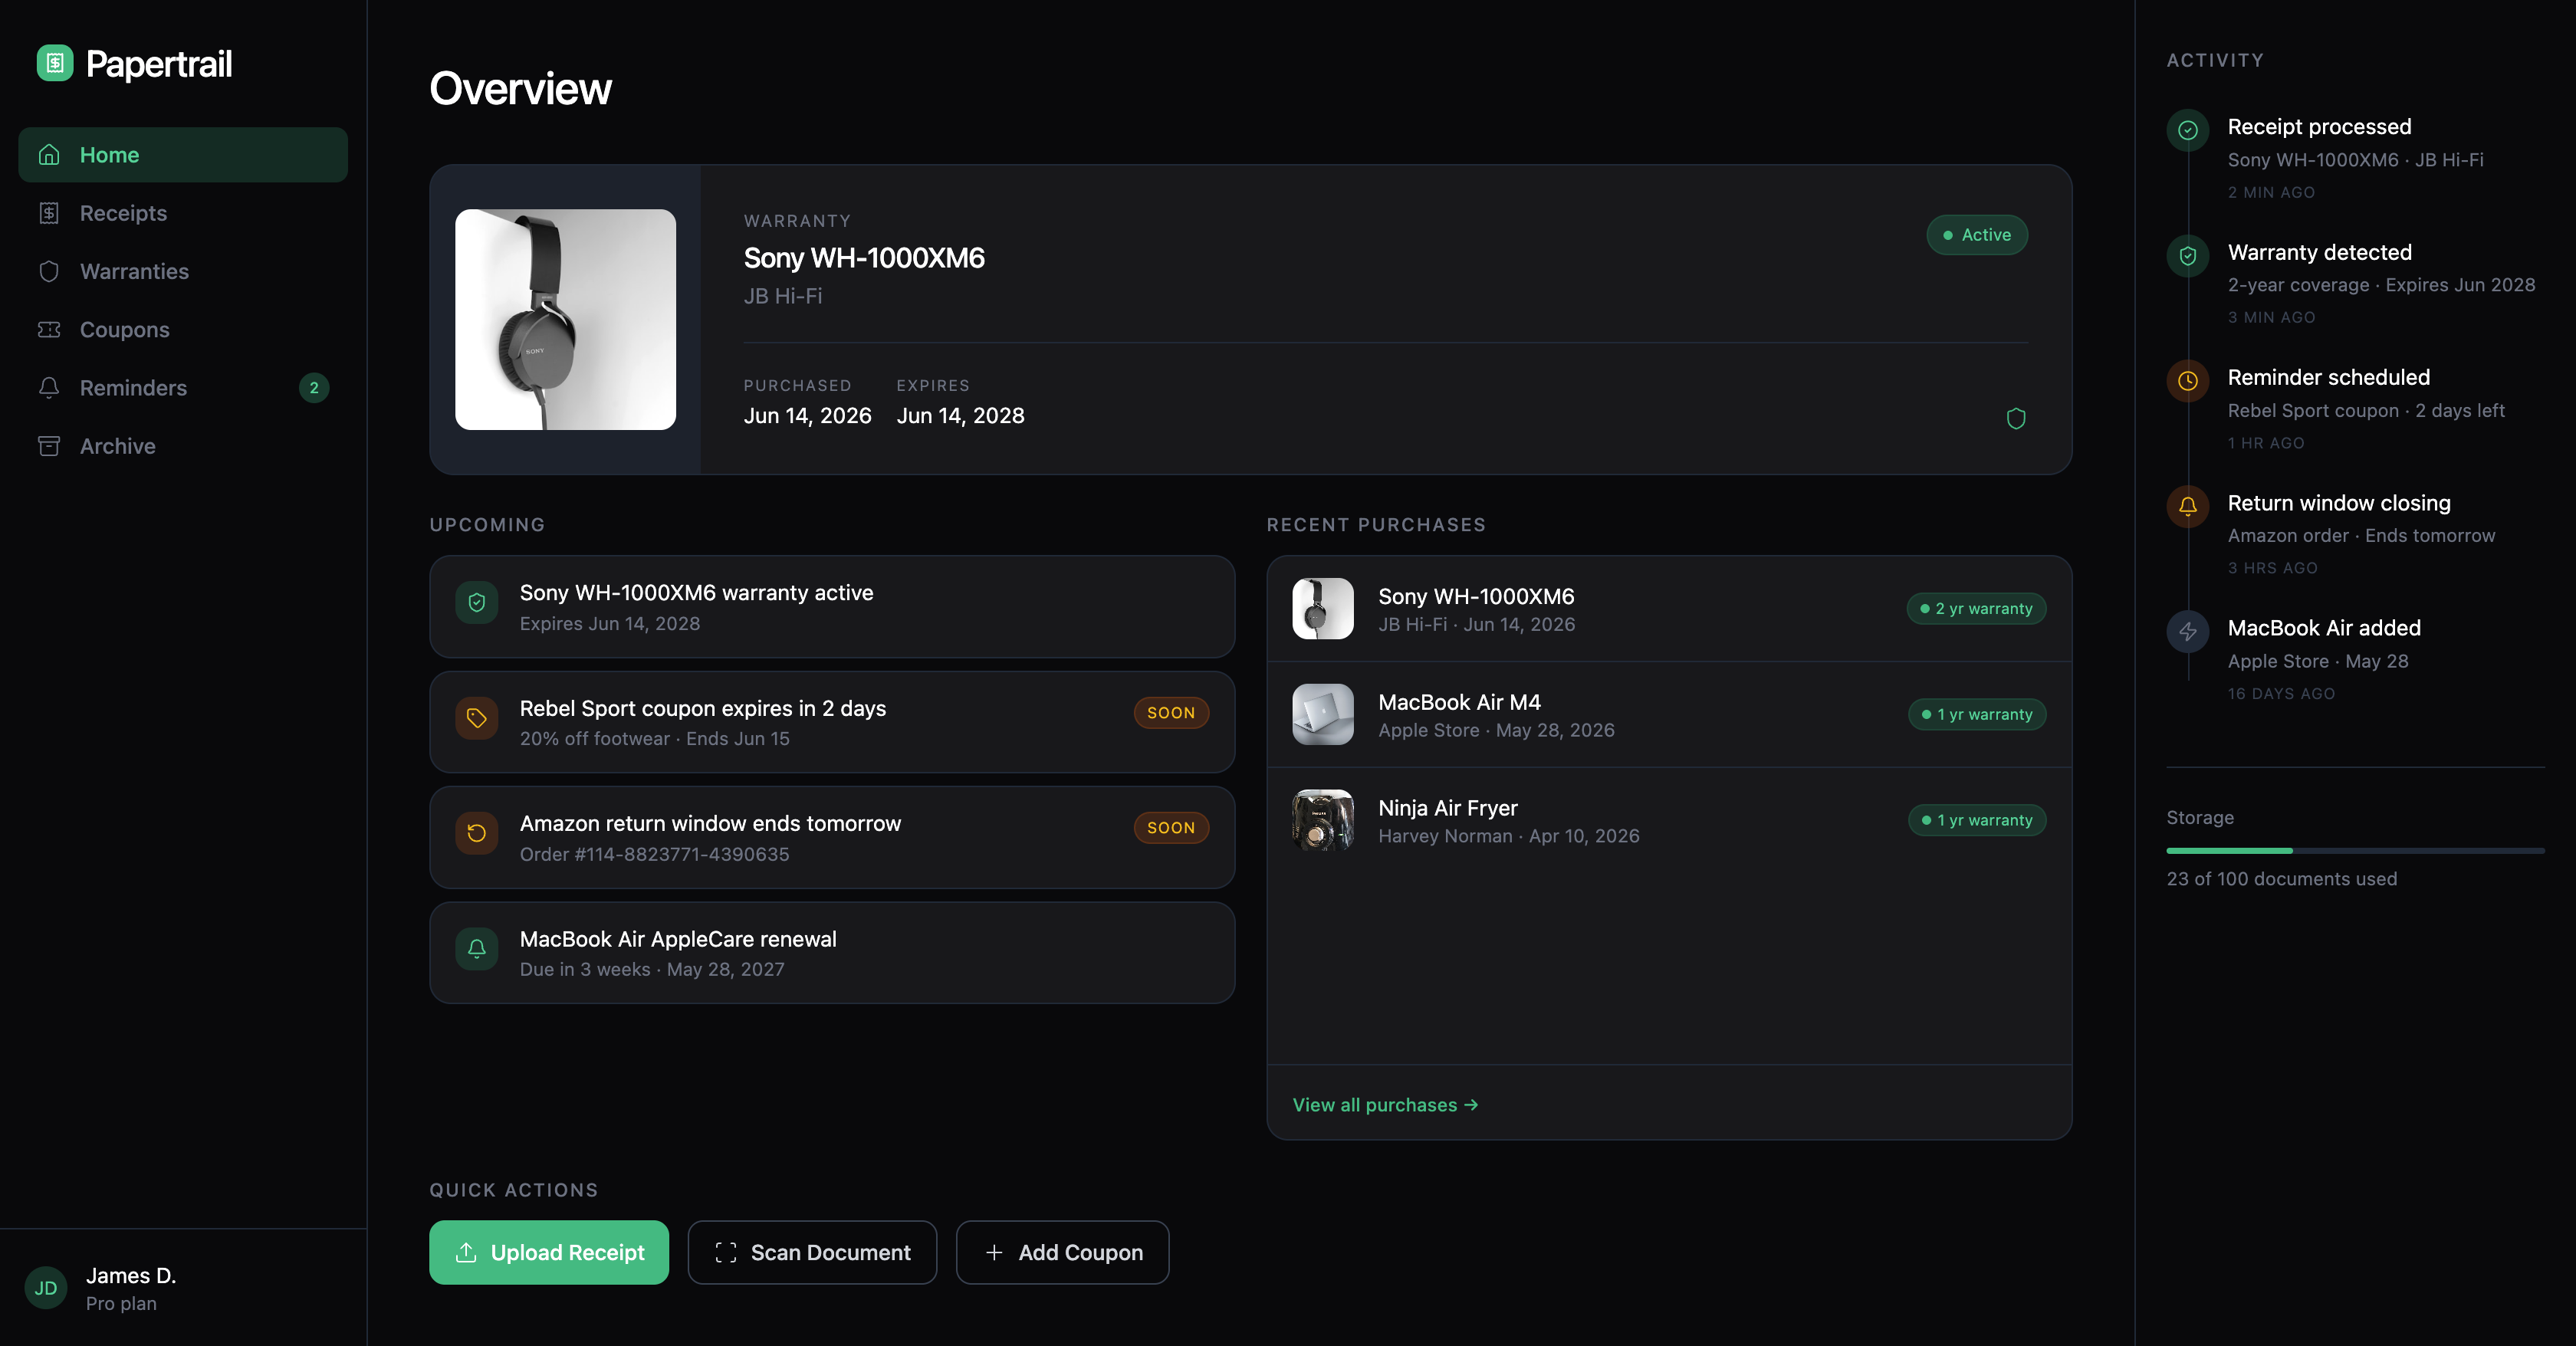
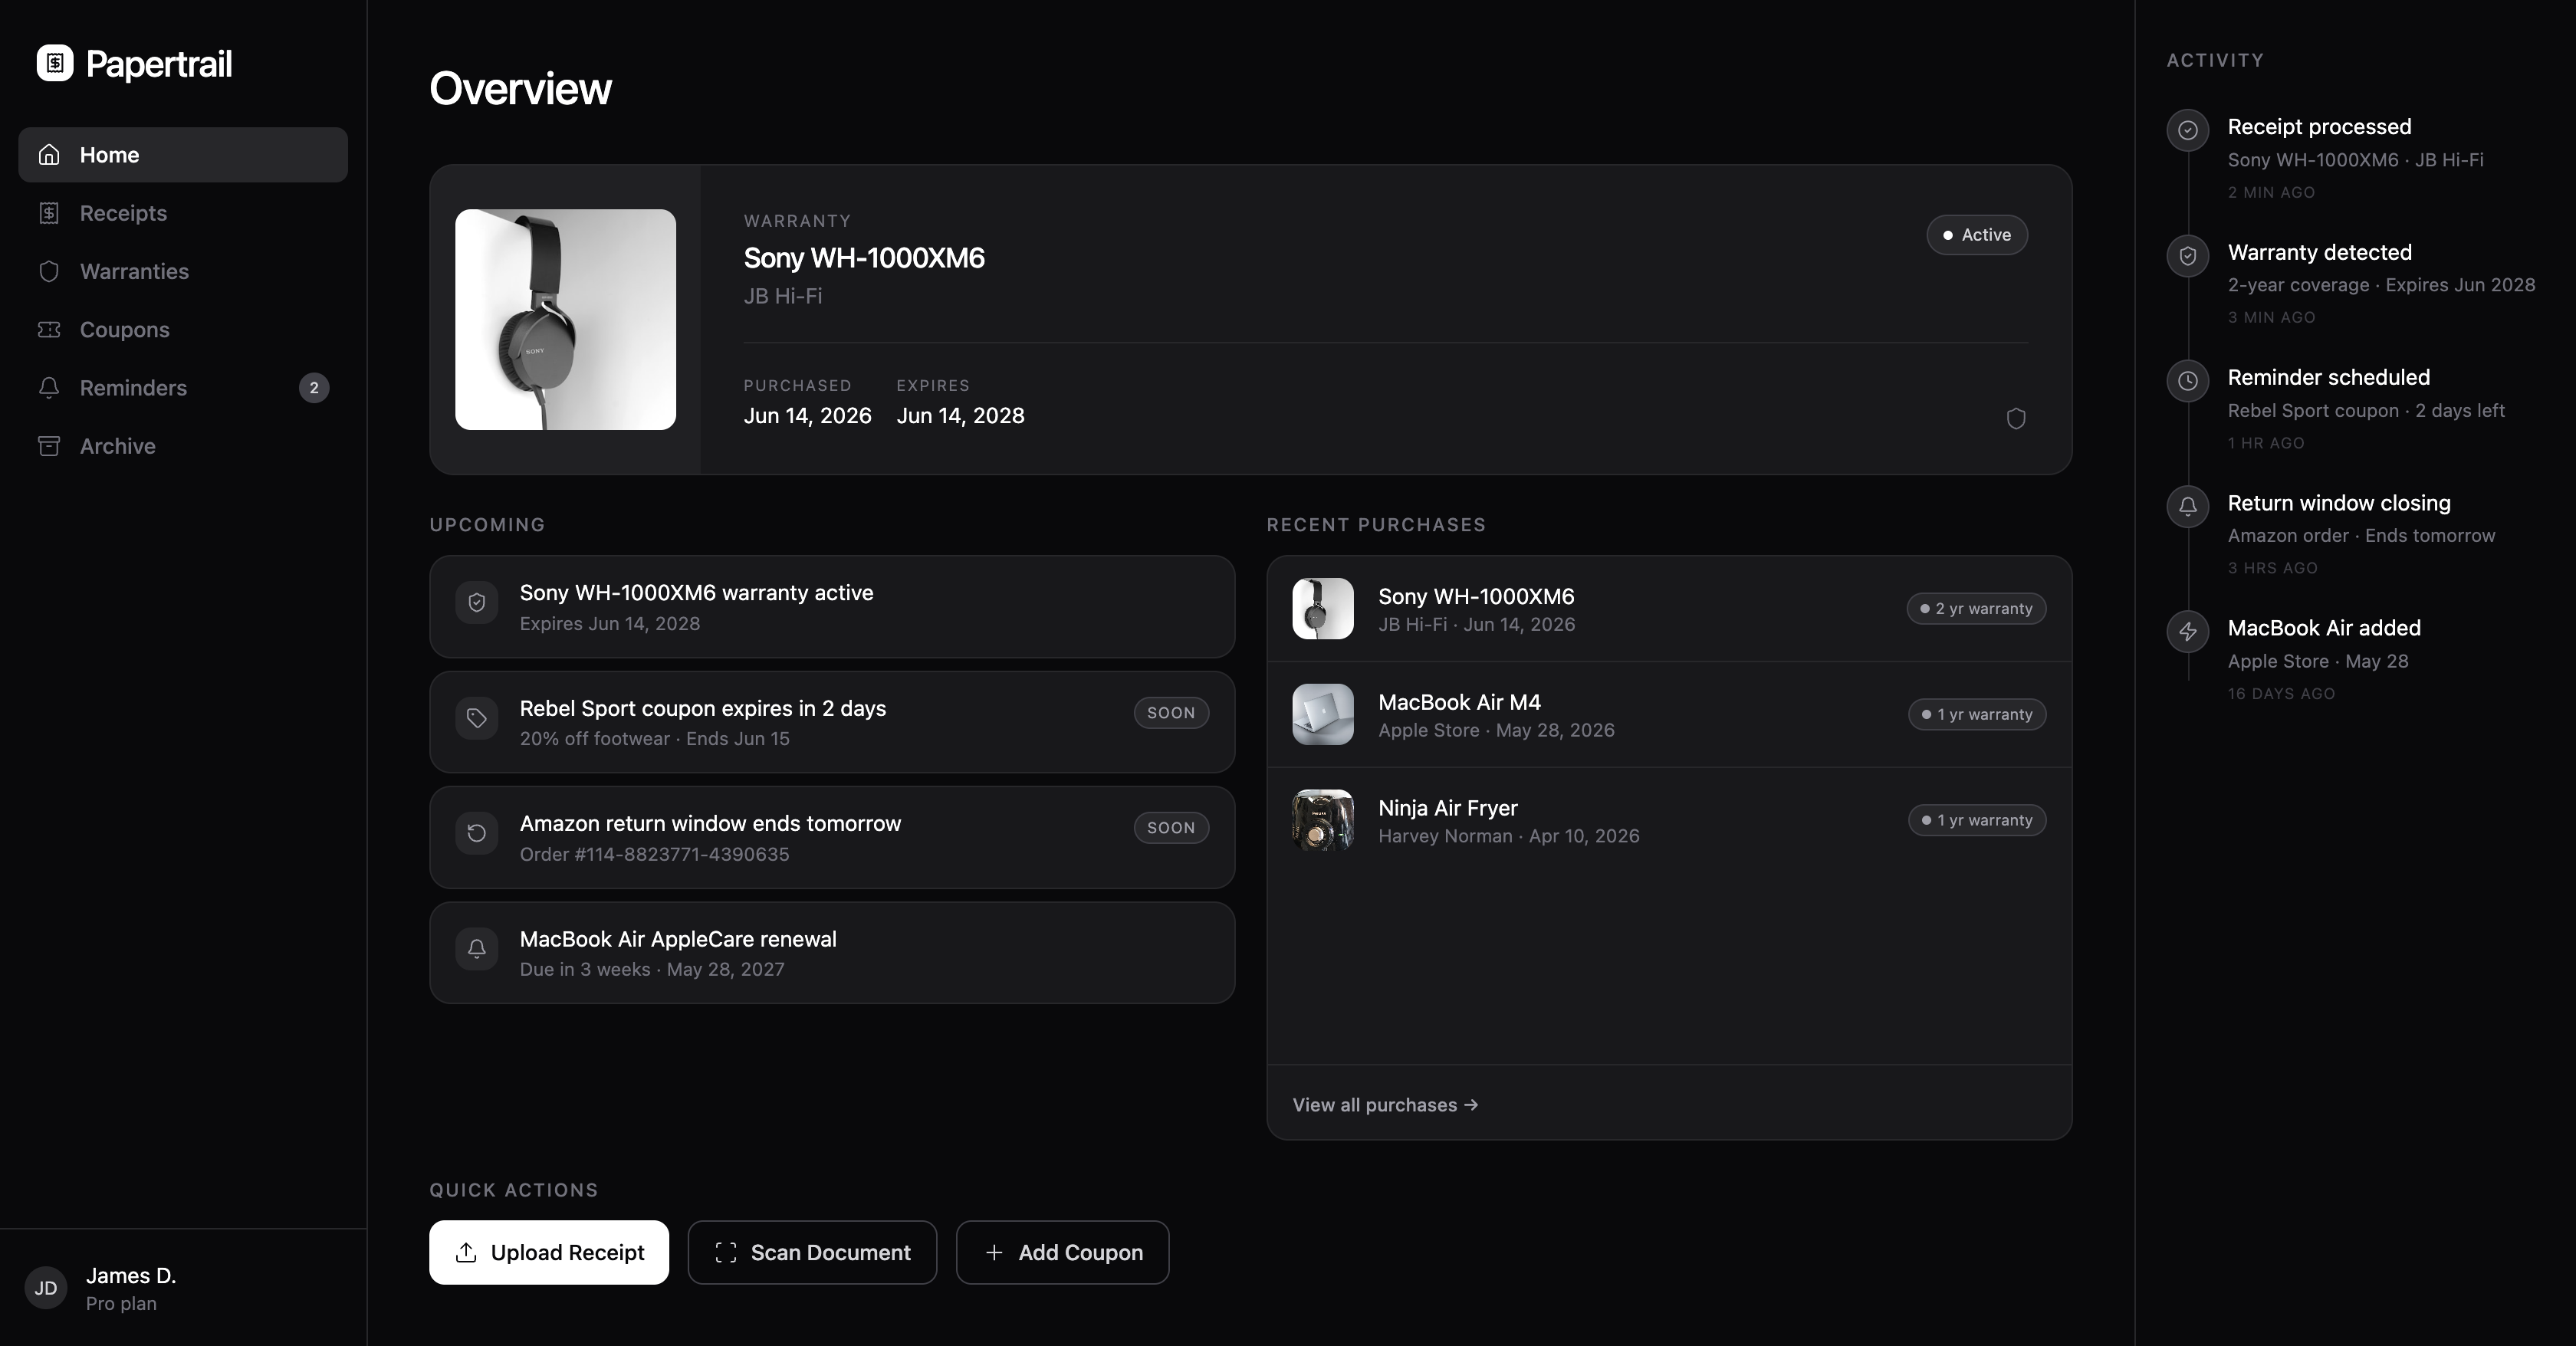
Embraced monochromtic theme. Removed emerald accent colors from all pages.

diff --git a/core/templates/core/home.html b/core/templates/core/home.html
@@ -5,31 +5,29 @@
     <nav class="fixed flex top-0 right-0 w-full justify-center align-center z-20 px-4 bg-white/80 dark:bg-zinc-950/80 backdrop-blur-md border-b border-b-zinc-200 dark:border-b-zinc-700">
         <div class="container flex flex-row flex-wrap items-center justify-between py-3 mx-auto w-full md:max-w-7xl">
             <div class="relative flex">
-                <a href="{% url 'core:home' %}" class="sm:flex items-center text-zinc-950 text-xl dark:text-white font-black lg:w-auto lg:items-center lg:justify-center md:mb-0 whitespace-nowrap">
-                    Papertrail<span class="text-emerald-500" data-primary="emerald-500">.</span>
-                </a>
+                <a href="{% url 'core:home' %}" class="sm:flex items-center text-zinc-950 text-xl dark:text-white font-black lg:w-auto lg:items-center lg:justify-center md:mb-0 whitespace-nowrap">Papertrail.</a>
                 <nav class="hidden md:flex flex-wrap items-center mb-5 text-base md:mb-0 md:pl-8 md:ml-8 md:border-l md:border-zinc-200 md:dark:border-zinc-700">
-                    <a href="#_" class="mr-5 leading-6 text-zinc-700 dark:text-white p-2 text-center rounded-md transition-all ease-in-out duration-200 hover:bg-zinc-200 dark:hover:bg-zinc-700">Features</a>
-                    <a href="#_" class="mr-5 leading-6 text-zinc-700 dark:text-white p-2 text-center rounded-md transition-all ease-in-out duration-200 hover:bg-zinc-200 dark:hover:bg-zinc-700">Pricing</a>
-                    <a href="#_" class="mr-5 leading-6 text-zinc-700 dark:text-white p-2 text-center rounded-md transition-all ease-in-out duration-200 hover:bg-zinc-200 dark:hover:bg-zinc-700">FAQ</a>
+                    <a href="#_" class="mr-5 leading-6 text-zinc-700 dark:text-white p-2 text-center rounded-md transition-all ease-in-out duration-200 hover:bg-zinc-200 dark:hover:bg-zinc-800">Features</a>
+                    <a href="#_" class="mr-5 leading-6 text-zinc-700 dark:text-white p-2 text-center rounded-md transition-all ease-in-out duration-200 hover:bg-zinc-200 dark:hover:bg-zinc-800">Pricing</a>
+                    <a href="#faq" class="mr-5 leading-6 text-zinc-700 dark:text-white p-2 text-center rounded-md transition-all ease-in-out duration-200 hover:bg-zinc-200 dark:hover:bg-zinc-800">FAQ</a>
                 </nav>
             </div>
             <div class="inline-flex items-center space-x-3 sm:space-x-6 lg:justify-end">
-                <a href="{% url 'account_login' %}" class="text-base leading-6 whitespace-no-wrap text-zinc-950 dark:text-zinc-200 px-2 md:sm-4 py-2 text-center rounded-md transition-all ease-in-out duration-200 hover:bg-zinc-200 dark:hover:bg-zinc-700">
+                <a href="{% url 'account_login' %}" class="text-base leading-6 whitespace-no-wrap text-zinc-950 dark:text-zinc-200 px-2 md:sm-4 py-2 text-center rounded-md transition-all ease-in-out duration-200 hover:bg-zinc-200 dark:hover:bg-zinc-800">
                     Sign in
                 </a>
-                <a href="{% url 'account_signup' %}" class="inline-flex items-center justify-center px-2 md:sm-4 py-2 text-base leading-6 whitespace-no-wrap text-white bg-emerald-500 transition-all ease-in-out duration-200 hover:bg-emerald-600 rounded-md" data-rounded="rounded-md" data-primary="emerald-500">
+                <a href="{% url 'account_signup' %}" class="inline-flex items-center justify-center md:sm-4 py-2 text-base leading-6 whitespace-no-wrap text-white dark:text-black bg-black hover:bg-black/80 dark:bg-white transition-all ease-in-out duration-200 dark:hover:bg-white/80 rounded-md px-4" data-rounded="rounded-md">
                     Join now
                 </a>
             </div>
         </div>
     </nav>
     
-    <section class="w-full bg-linear-to-b from-white to-zinc-200 dark:from-zinc-950 dark:from-20% dark:to-zinc-800 pt-36 rounded-md">
+    <section class="w-full bg-linear-to-b from-white to-zinc-300 dark:from-zinc-950 dark:from-20% dark:to-zinc-800 pt-36 rounded-md">
         <div class="container mx-auto gap-10 px-4 mb-5 flex flex-col items-center justify-center">
             <header>
                 <h1 class="text-4xl md:text-6xl text-center dark:text-white mb-5 font-semibold">
-                    Purchases leave <span class="text-emerald-500">Papertrails.</span>
+                    Purchases leave Papertrails.
                     <br>We'll track them for you.
                 </h1>
                 <p class="text-zinc-700 dark:text-zinc-400 text-center"> 
@@ -37,13 +35,52 @@
                 </p> 
             </header>
             <div class="grid grid-cols-2 gap-4 mb-5">
-                <a href="{% url 'account_signup' %}" class="text-white bg-emerald-500 transition-all ease-in-out duration-200 hover:bg-emerald-600 p-2 px-4 text-center rounded-md">Join now</a> 
-                <a href="#" class="text-zinc-950 dark:text-white p-2 text-center rounded-md transition-all ease-in-out duration-200 hover:bg-zinc-200 dark:hover:bg-zinc-700 px-4">Discover</a>
+                <a href="{% url 'account_signup' %}" class="text-white dark:text-black bg-black dark:bg-white transition-all ease-in-out duration-200 dark:hover:bg-white/80 hover:bg-black/80 p-2 px-4 text-center rounded-md">Join now</a> 
+                <a href="#" class="text-zinc-950 dark:text-white p-2 text-center rounded-md transition-all ease-in-out duration-200 hover:bg-zinc-200 dark:hover:bg-zinc-800 px-4">Discover</a>
             </div>
         </div>
         <div class="pl-4 sm:px-4 pb-10 mx-auto">
-            <img src="{% static 'core/images/interface-demo-light.png' %}" class="mx-auto min-h-90 h-max w-full md:h-auto object-cover object-left rounded-l-md sm:rounded-md shadow-2xl shadow-zinc-400 dark:hidden md:w-7xl" alt="Dark interface demo image">
-            <img src="{% static 'core/images/interface-demo-dark.png' %}" class="mx-auto min-h-90 h-max w-full md:h-auto object-cover object-left rounded-l-md sm:rounded-md shadow-2xl shadow-black hidden dark:block md:w-7xl" alt="Dark interface demo image">
+            <img src="{% static 'core/images/interface-demo-light.png' %}" class="border border-zinc-300 mx-auto min-h-90 h-max w-full md:h-auto object-cover object-left rounded-l-md border-r-white md:border-r-zinc-300 sm:rounded-md shadow-2xl shadow-zinc-400 dark:hidden md:w-7xl" alt="Dark interface demo image">
+            <img src="{% static 'core/images/interface-demo-dark.png' %}" class="border border-zinc-800 mx-auto min-h-90 h-max w-full md:h-auto object-cover object-left rounded-l-md border-r-black md:border-r-zinc-800 sm:rounded-md shadow-2xl shadow-black hidden dark:block md:w-7xl" alt="Dark interface demo image">
+        </div>
+    </section>
+    
+    <section id="faq" class="w-full mx-auto flex items-center justify-center min-h-screen py-24 px-4">
+        <div class="w-7xl mx-auto">
+            <h2 class="mb-4 text-2xl md:text-3xl font-semibold dark:text-white">Frequently Asked Questions.</h2>
+            <div class=" text-gray-600">
+                <div>
+                    <h5 class="mt-12 mb-3 font-semibold text-gray-900 dark:text-zinc-200">
+                        What is Papertrail?
+                    </h5>
+                    <p class="dark:text-zinc-400">
+                        Papertrail helps you organize receipts, warranties, and important purchase records in one place.
+                    </p>
+                    <hr class="my-5 lg:my-12">
+                    <h5 class="mt-10 mb-3 font-semibold text-gray-900 dark:text-zinc-200">
+                        How does receipt scanning work?
+                    </h5>
+                    <p class="dark:text-zinc-400">
+                        Upload a photo and Papertrail automatically extracts information. You can review and edit the details manually if needed.
+                    </p>
+                    <hr class="my-5 lg:my-12">
+
+                    <h5 class="mt-10 mb-3 font-semibold text-gray-900 dark:text-zinc-200">
+                        Is my data secure?
+                    </h5>
+                    <p class="dark:text-zinc-400">
+                        Your receipts and documents are stored securely and are only accessible from your account.
+                    </p>
+                    <hr class="my-5 lg:my-12">
+                    <h5 class="mt-10 mb-3 font-semibold text-gray-900 dark:text-zinc-200">
+                        Does Papertrail make digital reciepts?
+                    </h5>
+                    <p class="dark:text-zinc-400">
+                        Yes. Papertrail digitally recreates your reciepts, so you can use them all from your phone.
+                    </p>
+                    <hr class="my-5 lg:my-12">
+                </div>
+            </div>
         </div>
     </section>
 {% endblock %}

diff --git a/templates/account/password_change.html b/templates/account/password_change.html
@@ -1,0 +1,15 @@
+{% extends "account/password_change.html" %}
+{% load i18n %}
+{% load allauth_ui %}
+{% load widget_tweaks %}
+{% block content %}
+    {% trans "Change Password" as heading %}
+    {% #container heading=heading %}
+    {% url 'account_change_password' as action_url %}
+    {% #form form=form url=action_url button_text=heading %}
+    {% csrf_token %}
+    {{ redirect_field }}
+    {% /form %}
+    {% url "account_reset_password" as reset_password_url %}
+    {% /container %}
+{% endblock content %}

diff --git a/templates/socialaccount/snippets/provider_list.html b/templates/socialaccount/snippets/provider_list.html
@@ -15,20 +15,7 @@
         {% provider_login_url provider process=process scope=scope auth_params=auth_params as href %}
         <a class="
             btn w-full my-1 
-            font-medium
-
-            border border-emerald-500 
-            bg-emerald-400/10
-            dark:bg-emerald-400/5
-
-            dark:border-emerald-900
-            hover:bg-emerald-500/20
-            dark:hover:bg-emerald-400/10
-            text-black
-            dark:text-white
-            
-            shadow-none
-            transition-colors duration-200"
+            text-black dark:text-white font-medium bg-zinc-200 dark:bg-zinc-800 hover:bg-zinc-300 dark:hover:bg-zinc-800/70 shadow-none"
            title="{{ provider.name }}"
            href="{{ href }}">
            {{ provider.name }}

diff --git a/templates/account/email.html b/templates/account/email.html
@@ -22,10 +22,10 @@
                                     <span class="grow label-text overflow-auto py-3">
                                         {{ emailaddress.email }}
                                         {% if emailaddress.verified %}
-                                            <div class="badge badge-primary outline badge-outline ml-2 text-emerald-500 px-1.5">{% trans "Verified" %}</div>
+                                            <div class="badge badge-primary outline badge-outline ml-2 text-black dark:text-white px-1.5">{% trans "Verified" %}</div>
                                         {% endif %}
                                         {% if emailaddress.primary %}
-                                            <div class="badge badge-secondary outline badge-outline text-emerald-500 ml-2 px-1.5">{% trans "Primary" %}</div>
+                                            <div class="badge badge-secondary outline badge-outline text-black dark:text-white ml-2 px-1.5">{% trans "Primary" %}</div>
                                         {% endif %}
                                     </span>
                                     <input type="radio" name="email" value="{{ emailaddress.email }}" id="{{ radio.id }}" 
@@ -37,11 +37,11 @@
                 </div>
                 <div class="divider"></div>
                 <div class="flex flex-col mt-3 gap-2">
-                    <button name="action_primary" type="submit" class="btn btn-primary border-1 bg-emerald-600/10 hover:bg-emerald-600/20 border-emerald-500 dark:border-emerald-800 shadow-none text-emerald-800 dark:text-emerald-100">{% trans "Make Primary" %}</button>
-                    <button name="action_send" type="submit" class="btn btn-secondary border-1 bg-zinc-100 dark:bg-zinc-200/5 hover:bg-zinc-200 dark:hover:bg-zinc-200/10 border-zinc-500 dark:border-zinc-700 text-zinc-800 dark:text-zinc-200 shadow-none ">
+                    <button name="action_primary" type="submit" class="btn btn-primary btn btn-neutral text-black dark:text-white font-medium bg-zinc-200 dark:bg-zinc-800 hover:bg-zinc-300 dark:hover:bg-zinc-800/70 shadow-none border-none">{% trans "Make Primary" %}</button>
+                    <button name="action_send" type="submit" class="btn btn-secondary focus:outline-none  text-black dark:text-white font-medium bg-zinc-200 dark:bg-zinc-800 hover:bg-zinc-300 dark:hover:bg-zinc-800/70 shadow-none border-none">
                         {% trans "Re-send verification" %}
                     </button>
-                    <button name="action_remove" type="submit" class="btn btn-warning text-sm tracking-wide text-error bg-zinc-100 dark:bg-zinc-200/5 hover:bg-rose-300/5 dark:hover:bg-rose-300/15 p-2 rounded-md shadow-none border border-zinc-500 dark:border-zinc-700  hover:border-rose-300 hover:text-rose-500 dark:hover:text-rose-400 text-zinc-800 dark:text-zinc-200">{% trans "Remove" %}</button>
+                    <button name="action_remove" type="submit" class="btn btn-warning text-sm tracking-wide text-error text-black dark:text-white font-medium bg-zinc-200 dark:bg-zinc-800 hover:bg-zinc-300 dark:hover:bg-zinc-800/70 shadow-none border-none  hover:border-rose-300 hover:text-rose-500 dark:hover:text-rose-400 text-zinc-800 dark:text-zinc-200">{% trans "Remove" %}</button>
                 </div>
             {% /form %}
         {% else %}
@@ -54,7 +54,7 @@
             {% trans "Add Email" as button_text %}
             {% #form form=form url=action_url button_text=button_text use_default_button="false" %}
                 {% csrf_token %}
-                <button type="submit" name="action_add" class="my-3 btn bg-emerald-500 hover:bg-emerald-600 dark:bg-emerald-600 dark:hover:bg-emerald-700 text-white border-none">
+                <button type="submit" name="action_add" class="mb-2 btn mt-3 w-full btn btn-primary font-medium bg-zinc-950 dark:bg-white dark:hover:bg-white/80 hover:bg-zinc-950/80 text-white dark:text-black shadow-none border-none">
                     {{ button_text }}
                 </button>
             {% /form %}

diff --git a/templates/components/form_field.html b/templates/components/form_field.html
@@ -1,12 +1,12 @@
 {% load widget_tweaks %}
-<section class="nth-[n+2]:my-5">
+<section class="nth-[n+2]:my-4">
 <label class="label mb-0.5" for="{{ field.id_for_label }}">
     <span class="label-text">{{ field.label }}</span>
 </label>
 {% if field.errors %}
     {% render_field field placeholder="" class="w-full input focus:outline-none border-red-700 dark:border-red-400 text-primary bg-transparent shadow-none input-error text-black dark:text-white" %}
 {% else %}
-    {% render_field field placeholder="" class="w-full input focus:outline-none border border-zinc-300 focus:border-emerald-500 dark:focus:border-emerald-800 text-primary dark:border-zinc-700 text bg-transparent shadow-none text-black dark:text-white" %}
+    {% render_field field placeholder="" class="w-full input focus:outline-none focus:border-black dark:focus:border-white text-primary text bg-transparent shadow-none text-black dark:text-white" %}
 {% endif %}
 {% for error in field.errors %}
     <span class="flex items-center max-w-full mt-1 ml-1 text-xs font-light tracking-wide text-error text-red-700 dark:text-red-400">{{ error }}</span>

diff --git a/templates/account/login.html b/templates/account/login.html
@@ -22,7 +22,7 @@
                 {% if form.remember %}
                     <div class="items-start my-2 form-control">
                         <label class="cursor-pointer label">
-                            {% render_field form.remember type="checkbox" class="bg-black w-4 h-4 rounded-xl accent-emerald-500" %}
+                            {% render_field form.remember type="checkbox" class="bg-black w-5 h-5 rounded-xl accent-black dark:accent-white" %}
                             <span class="ml-1 label-text">{% trans "Remember me" %}</span>
                         </label>
                     </div>

diff --git a/templates/components/form.html b/templates/components/form.html
@@ -19,6 +19,6 @@
     {% endif %}
     {{ children }}
     {% if use_default_button == "true" %}
-        <button type="submit" class="mt-3 btn btn-primary font-medium bg-emerald-500 dark:bg-emerald-700 hover:bg-emerald-600 text-white dark:hover:bg-emerald-800 shadow-none border-none">{{ button_text }}</button>
+        <button type="submit" class="mt-3 w-full btn btn-primary font-medium bg-zinc-950 dark:bg-white dark:hover:bg-white/80 hover:bg-zinc-950/80 text-white dark:text-black shadow-none border-none">{{ button_text }}</button>
     {% endif %}
 </form>